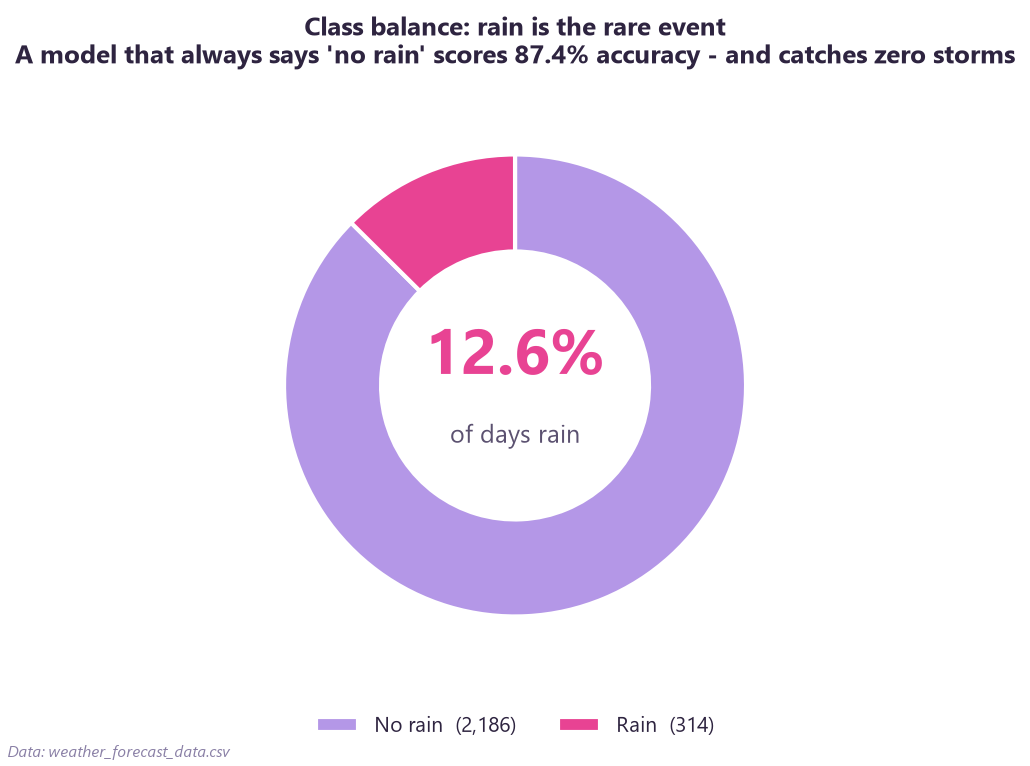
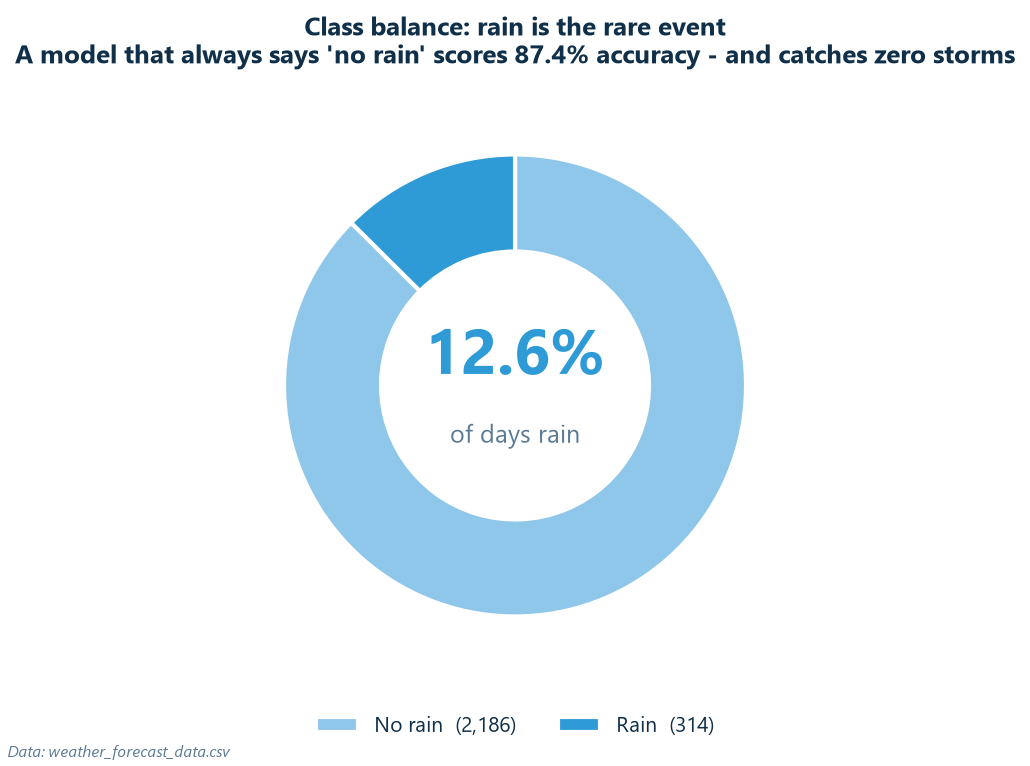
Recolor dashboard + charts to a rainfall-blues theme
Give the rain project its own visual identity, distinct from the purple
BI house style: navy -> ocean -> sky-blue -> cyan palette across the
dashboard (nav rail, KPI tiles, all Chart.js series, tables) and the
matplotlib charts embedded in the README. Verified: renders at 1440x900
with no page scroll, all 9 charts draw, tabs and controls work, no
console errors, no legacy purple remaining.

diff --git a/index.html b/index.html
@@ -7,9 +7,9 @@
 <script src="https://cdn.jsdelivr.net/npm/chart.js@4.4.1/dist/chart.umd.min.js"></script>
 <style>
   :root{
-    --purple:#6C4AB6; --purple2:#7A5FCC; --pink:#E84393; --pink2:#FF4F9A;
-    --lilac:#B497E7; --canvas:#F5F3FB; --ink:#2E2440; --muted:#8A80A6;
-    --card:#ffffff; --line:#ECE6F7;
+    --purple:#0F3A5F; --purple2:#1E6FA8; --pink:#2E9BD6; --pink2:#38C6E0;
+    --lilac:#8FC7EA; --canvas:#EFF6FB; --ink:#103049; --muted:#5B7A93;
+    --card:#ffffff; --line:#DCE9F2;
   }
   *{box-sizing:border-box; margin:0; padding:0;}
   html,body{height:100%;}
@@ -52,16 +52,16 @@
   .pill{
     background:#fff; border:1px solid var(--line); border-radius:20px;
     padding:6px 13px; font-size:11.5px; font-weight:600; color:var(--purple);
-    box-shadow:0 2px 6px rgba(108,74,182,.06);
+    box-shadow:0 2px 6px rgba(15,58,95,.06);
   }
   /* KPI tiles */
   .kpis{display:grid; grid-template-columns:repeat(5,1fr); gap:12px; margin-bottom:12px;}
-  .kpi{border-radius:14px; padding:12px 14px; color:#fff; box-shadow:0 6px 16px rgba(108,74,182,.16);}
-  .kpi:nth-child(1){background:linear-gradient(135deg,#6C4AB6,#7A5FCC);}
-  .kpi:nth-child(2){background:linear-gradient(135deg,#7A5FCC,#B497E7);}
-  .kpi:nth-child(3){background:linear-gradient(135deg,#9b5bc0,#E84393);}
-  .kpi:nth-child(4){background:linear-gradient(135deg,#E84393,#FF4F9A);}
-  .kpi:nth-child(5){background:linear-gradient(135deg,#7A5FCC,#E84393);}
+  .kpi{border-radius:14px; padding:12px 14px; color:#fff; box-shadow:0 6px 16px rgba(15,58,95,.16);}
+  .kpi:nth-child(1){background:linear-gradient(135deg,#0F3A5F,#1E6FA8);}
+  .kpi:nth-child(2){background:linear-gradient(135deg,#1E6FA8,#2E9BD6);}
+  .kpi:nth-child(3){background:linear-gradient(135deg,#1B7BB0,#2E9BD6);}
+  .kpi:nth-child(4){background:linear-gradient(135deg,#2E9BD6,#38C6E0);}
+  .kpi:nth-child(5){background:linear-gradient(135deg,#1E6FA8,#14A0A0);}
   .kpi .lab{font-size:10.5px; opacity:.9; letter-spacing:.4px; text-transform:uppercase;}
   .kpi .val{font-size:25px; font-weight:700; margin-top:4px; line-height:1;}
   .kpi .sub{font-size:10.5px; opacity:.88; margin-top:3px;}
@@ -76,7 +76,7 @@
   .g-drivers{grid-template-columns:1fr 1fr 1fr;}
   .card{
     background:var(--card); border:1px solid var(--line); border-radius:16px;
-    padding:12px 14px; box-shadow:0 4px 14px rgba(108,74,182,.07);
+    padding:12px 14px; box-shadow:0 4px 14px rgba(15,58,95,.07);
     display:flex; flex-direction:column; min-height:0;
   }
   .card h3{font-size:13px; font-weight:700; margin-bottom:2px;}
@@ -87,7 +87,7 @@
   .ctrl label{font-size:10.5px; color:var(--muted); font-weight:600; margin-right:6px;}
   .ctrl select, .ctrl .seg{
     font-family:inherit; font-size:11.5px; font-weight:600; color:var(--purple);
-    border:1px solid var(--lilac); background:#faf8ff; border-radius:8px; padding:4px 8px;
+    border:1px solid var(--lilac); background:#eff6fc; border-radius:8px; padding:4px 8px;
   }
   .seg{display:inline-flex; gap:2px; padding:2px;}
   .seg button{all:unset; cursor:pointer; padding:4px 10px; border-radius:6px; font-size:11px; font-weight:600; color:var(--purple);}
@@ -96,13 +96,13 @@
   /* rain-rate + threshold tables */
   table.rr{width:100%; border-collapse:collapse; font-size:11px;}
   table.rr th,table.rr td{padding:6px 4px; text-align:center; border:1px solid var(--line);}
-  table.rr th{background:#f6f2fe; color:var(--purple); font-weight:700;}
+  table.rr th{background:#eaf3fb; color:var(--purple); font-weight:700;}
   table.rr td b{font-size:12.5px;}
-  table.rr .corner{background:#efe9fb;}
+  table.rr .corner{background:#e0edf7;}
   .tt{width:100%; border-collapse:collapse; font-size:11px; margin-top:6px;}
   .tt th,.tt td{padding:5px 6px; text-align:center; border-bottom:1px solid var(--line);}
   .tt th{color:var(--purple); font-weight:700;}
-  .tt tr.hl td{background:#fdeaf4; font-weight:700;}
+  .tt tr.hl td{background:#e2f1fb; font-weight:700;}
   .foot{font-size:9.5px; color:var(--muted); text-align:right; margin-top:6px;}
 </style>
 </head>
@@ -202,7 +202,7 @@
           </div>
           <div class="card">
             <h3>Logistic coefficients</h3>
-            <div class="cap">Standardized coefficients (per +1 SD). Pink &rarr; rain, purple &rarr; no-rain.</div>
+            <div class="cap">Standardized coefficients (per +1 SD). Sky blue &rarr; rain, navy &rarr; no-rain.</div>
             <div class="canvas-box"><canvas id="coefChart"></canvas></div>
           </div>
           <div class="card">
@@ -220,7 +220,7 @@
 <script type="application/json" id="dashData">{"meta":{"n_rows":2500,"n_features":5,"n_rain":314,"n_no_rain":2186,"pct_rain":12.6,"naive_accuracy":87.4,"random_state":42,"test_size":0.25,"features":["Temperature","Humidity","Wind_Speed","Cloud_Cover","Pressure"],"units":{"Temperature":"\u00b0C","Humidity":"%","Wind_Speed":"m/s","Cloud_Cover":"%","Pressure":"hPa"}},"class_balance":{"no_rain":2186,"rain":314},"group_means":{"Temperature":{"no_rain":23.319913429722003,"rain":17.442618602316482,"delta":-5.877294827405521,"unit":"\u00b0C"},"Humidity":{"no_rain":61.45515136986936,"rain":84.48017595399446,"delta":23.0250245841251,"unit":"%"},"Wind_Speed":{"no_rain":9.90929731927227,"rain":9.885073119248622,"delta":-0.02422420002364767,"unit":"m/s"},"Cloud_Cover":{"no_rain":46.05816197231074,"rain":74.72012282228647,"delta":28.661960849975728,"unit":"%"},"Pressure":{"no_rain":1014.2490213017143,"rain":1014.7531181130876,"delta":0.5040968113733015,"unit":"hPa"}},"correlation":{"labels":["Temperature","Humidity","Wind_Speed","Cloud_Cover","Pressure","Rain(0/1)"],"matrix":[[1.0,-0.014,-0.005,0.007,-0.007,-0.266],[-0.014,1.0,0.004,0.007,-0.032,0.382],[-0.005,0.004,1.0,-0.0,0.019,-0.001],[0.007,0.007,-0.0,1.0,0.023,0.326],[-0.007,-0.032,0.019,0.023,1.0,0.008],[-0.266,0.382,-0.001,0.326,0.008,1.0]],"rain_corr":{"Humidity":0.382,"Cloud_Cover":0.326,"Pressure":0.008,"Wind_Speed":-0.001,"Temperature":-0.266}},"distributions":{"Temperature":{"unit":"\u00b0C","centers":[10.5,11.5,12.5,13.5,14.5,15.5,16.5,17.5,18.5,19.5,20.5,21.5,22.5,23.5,24.5,25.5,26.5,27.5,28.5,29.5,30.5,31.5,32.5,33.5,34.5],"no_rain":[0.04027,0.03203,0.04027,0.03249,0.03661,0.03112,0.04164,0.03798,0.03615,0.03295,0.04072,0.0302,0.03295,0.03844,0.03523,0.04622,0.03615,0.05079,0.04301,0.04301,0.04393,0.04393,0.04622,0.05171,0.05628],"rain":[0.0669,0.07645,0.08282,0.05415,0.05097,0.05415,0.05415,0.09238,0.07008,0.07964,0.06371,0.06371,0.07645,0.06053,0.05415,0.0,0.0,0.0,0.0,0.0,0.0,0.0,0.0,0.0,0.0],"mean_no_rain":23.319913429722003,"mean_rain":17.442618602316482},"Humidity":{"unit":"%","centers":[31.4,34.2,37.0,39.8,42.6,45.4,48.2,51.0,53.8,56.6,59.4,62.2,65.0,67.8,70.6,73.4,76.2,79.0,81.8,84.6,87.4,90.2,93.0,95.8,98.6],"no_rain":[0.01634,0.01503,0.01634,0.01781,0.01781,0.01569,0.01781,0.01879,0.01716,0.01503,0.01928,0.01601,0.01699,0.01471,0.01373,0.01111,0.00964,0.0098,0.01176,0.01307,0.01046,0.01258,0.00817,0.01209,0.00997],"rain":[0.0,0.0,0.0,0.0,0.0,0.0,0.0,0.0,0.0,0.0,0.0,0.0,0.0,0.0,0.02161,0.03868,0.04778,0.02958,0.03185,0.02503,0.0364,0.02844,0.03981,0.0273,0.03071],"mean_no_rain":61.45515136986936,"mean_rain":84.48017595399446},"Wind_Speed":{"unit":"m/s","centers":[0.41,1.21,2.01,2.81,3.61,4.41,5.21,6.01,6.81,7.61,8.41,9.2,10.0,10.8,11.6,12.4,13.2,14.0,14.8,15.6,16.4,17.2,18.0,18.8,19.6],"no_rain":[0.05149,0.05321,0.05035,0.04749,0.05035,0.06236,0.04749,0.05092,0.03948,0.05378,0.04234,0.05664,0.04577,0.04463,0.06007,0.05264,0.0452,0.05092,0.05092,0.06007,0.04806,0.04405,0.05321,0.04348,0.04577],"rain":[0.05975,0.0478,0.05576,0.07568,0.03983,0.0478,0.0478,0.02788,0.05178,0.07568,0.0478,0.03585,0.06373,0.04381,0.01593,0.07169,0.03585,0.06373,0.0478,0.03186,0.05576,0.04381,0.05178,0.0478,0.06373],"mean_no_rain":9.90929731927227,"mean_rain":9.885073119248622},"Cloud_Cover":{"unit":"%","centers":[2.01,6.01,10.01,14.01,18.01,22.01,26.01,30.01,34.01,38.01,42.01,46.01,50.01,54.01,58.01,62.0,66.0,70.0,74.0,78.0,82.0,86.0,90.0,94.0,98.0],"no_rain":[0.01315,0.01338,0.01029,0.01293,0.01178,0.01041,0.01007,0.00972,0.00812,0.01212,0.01247,0.01327,0.01121,0.00904,0.00801,0.00824,0.00766,0.00789,0.00846,0.00881,0.00766,0.00858,0.01132,0.00812,0.00732],"rain":[0.0,0.0,0.0,0.0,0.0,0.0,0.0,0.0,0.0,0.0,0.0,0.0,0.00956,0.02389,0.0223,0.01832,0.01593,0.0207,0.02309,0.01832,0.01672,0.01832,0.0207,0.02628,0.01593],"mean_no_rain":46.05816197231074,"mean_rain":74.72012282228647},"Pressure":{"unit":"hPa","centers":[981.41,984.21,987.01,989.81,992.61,995.41,998.21,1001.01,1003.8,1006.6,1009.4,1012.2,1015.0,1017.8,1020.6,1023.4,1026.2,1028.99,1031.79,1034.59,1037.39,1040.19,1042.99,1045.79,1048.59],"no_rain":[0.01569,0.01308,0.01536,0.01291,0.01667,0.01569,0.01667,0.01602,0.01259,0.01389,0.01683,0.01422,0.01291,0.01389,0.01226,0.01357,0.0152,0.01275,0.01585,0.0134,0.01455,0.01357,0.01324,0.01389,0.01259],"rain":[0.01252,0.02048,0.01934,0.00797,0.01593,0.00683,0.01479,0.01365,0.01479,0.01821,0.01934,0.01593,0.01821,0.00683,0.01934,0.00797,0.00683,0.01821,0.01593,0.00569,0.01821,0.01365,0.01252,0.01593,0.01821],"mean_no_rain":1014.2490213017143,"mean_rain":1014.7531181130876}},"rain_rate_table":{"humidity_labels":["Low (30-55)","Med (55-75)","High (75-100)"],"cloud_labels":["Low (0-33)","Med (33-66)","High (66-100)"],"rate":[[0.0,0.0,0.0],[0.0,7.4,15.6],[0.0,29.4,59.7]],"count":[[306,312,315],[251,229,237],[264,296,290]]},"models":{"Logistic Regression":{"roc_auc":0.956,"precision":0.525,"recall":0.924,"f1":0.67,"accuracy":0.885,"confusion_matrix":{"tn":480,"fp":66,"fn":6,"tp":73}},"Random Forest":{"roc_auc":1.0,"precision":0.988,"recall":1.0,"f1":0.994,"accuracy":0.998,"confusion_matrix":{"tn":545,"fp":1,"fn":0,"tp":79}}},"winner":"Random Forest","roc_curves":{"Logistic Regression":{"fpr":[0.0,0.0,0.0,0.0018,0.0018,0.0055,0.0055,0.0073,0.0073,0.0092,0.0092,0.011,0.011,0.0147,0.0147,0.0165,0.0165,0.0256,0.0256,0.0275,0.0275,0.0293,0.0293,0.0366,0.0366,0.0421,0.0421,0.0458,0.0458,0.0476,0.0476,0.0495,0.0495,0.0531,0.0531,0.0549,0.0549,0.0586,0.0586,0.0623,0.0623,0.0641,0.0641,0.0659,0.0659,0.0751,0.0751,0.0769,0.0769,0.0788,0.0788,0.0806,0.0806,0.0824,0.0824,0.0879,0.0879,0.0916,0.0916,0.0934,0.0934,0.1154,0.1154,0.1172,0.1172,0.119,0.119,0.1209,0.1209,0.1447,0.1447,0.1484,0.1484,0.1722,0.1722,0.1832,0.1832,0.2051,0.2051,1.0],"tpr":[0.0,0.0127,0.1519,0.1519,0.2278,0.2278,0.2658,0.2658,0.2785,0.2785,0.3165,0.3165,0.443,0.443,0.4557,0.4557,0.481,0.481,0.5063,0.5063,0.5316,0.5316,0.5443,0.5443,0.5823,0.5823,0.6203,0.6203,0.6329,0.6329,0.6456,0.6456,0.6582,0.6582,0.6709,0.6709,0.6962,0.6962,0.7089,0.7089,0.7215,0.7215,0.7342,0.7342,0.7468,0.7468,0.7595,0.7595,0.7722,0.7722,0.7848,0.7848,0.7975,0.7975,0.8101,0.8101,0.8228,0.8228,0.8608,0.8608,0.8734,0.8734,0.8861,0.8861,0.8987,0.8987,0.9114,0.9114,0.9367,0.9367,0.9494,0.9494,0.962,0.962,0.9747,0.9747,0.9873,0.9873,1.0,1.0],"auc":0.956},"Random Forest":{"fpr":[0.0,0.0,0.0,0.0,0.0,0.0,0.0,0.0,0.0,0.0,0.0,0.0,0.0165,0.0201,0.022,0.033,0.0495,0.0641,0.0806,0.1044,0.152,0.2198,0.3315,1.0],"tpr":[0.0,0.1139,0.2785,0.4557,0.5316,0.6582,0.7468,0.7975,0.8481,0.8608,0.9367,1.0,1.0,1.0,1.0,1.0,1.0,1.0,1.0,1.0,1.0,1.0,1.0,1.0],"auc":1.0}},"pr_curve":{"recall":[1.0,1.0,1.0,1.0,1.0,1.0,1.0,1.0,1.0,1.0,1.0,1.0,1.0,1.0,1.0,1.0,1.0,1.0,1.0,1.0,1.0,1.0,1.0,0.9873,0.9747,0.962,0.9494,0.9367,0.8987,0.8608,0.8481,0.8228,0.7975,0.7468,0.6582,0.5316,0.4557,0.2785,0.1139,0.0],"precision":[0.1264,0.3038,0.397,0.4877,0.5809,0.6423,0.693,0.7453,0.8144,0.8316,0.8495,0.8681,0.8778,0.8977,0.908,0.9186,0.9294,0.9405,0.9518,0.9634,0.9753,0.9875,1.0,1.0,1.0,1.0,1.0,1.0,1.0,1.0,1.0,1.0,1.0,1.0,1.0,1.0,1.0,1.0,1.0,1.0],"baseline":0.1264,"op_recall":1.0,"op_precision":0.988},"threshold_table":[{"threshold":0.3,"precision":0.9634146341463414,"recall":1.0,"f1":0.9813664596273292,"predicted_rain":82},{"threshold":0.4,"precision":0.9875,"recall":1.0,"f1":0.9937106918238994,"predicted_rain":80},{"threshold":0.5,"precision":0.9875,"recall":1.0,"f1":0.9937106918238994,"predicted_rain":80},{"threshold":0.6,"precision":1.0,"recall":1.0,"f1":1.0,"predicted_rain":79},{"threshold":0.7,"precision":1.0,"recall":1.0,"f1":1.0,"predicted_rain":79}],"rf_importance":{"Humidity":0.4411,"Cloud_Cover":0.3283,"Temperature":0.2211,"Wind_Speed":0.0051,"Pressure":0.0045},"logistic":{"coef":{"Humidity":2.8772,"Cloud_Cover":2.5349,"Pressure":0.0373,"Wind_Speed":-0.0512,"Temperature":-1.8445},"odds":{"Humidity":17.7644,"Cloud_Cover":12.6154,"Pressure":1.038,"Wind_Speed":0.9501,"Temperature":0.1581}}}</script>
 <script>
 const D = JSON.parse(document.getElementById('dashData').textContent);
-const PURPLE='#6C4AB6', PURPLE2='#7A5FCC', PINK='#E84393', PINK2='#FF4F9A', LILAC='#B497E7', INK='#2E2440', MUTED='#8A80A6';
+const PURPLE='#0F3A5F', PURPLE2='#1E6FA8', PINK='#2E9BD6', PINK2='#38C6E0', LILAC='#8FC7EA', INK='#103049', MUTED='#5B7A93';
 Chart.defaults.font.family = "'Segoe UI',sans-serif";
 Chart.defaults.font.size = 11;
 Chart.defaults.color = MUTED;
@@ -263,7 +263,7 @@ document.querySelectorAll('.menu button').forEach(btn=>{
 new Chart(document.getElementById('ringChart'), {
   type:'doughnut',
   data:{labels:['Rain','No rain'], datasets:[{data:[m.n_rain, m.n_no_rain],
-    backgroundColor:['#FF4F9A','rgba(255,255,255,.25)'], borderWidth:0}]},
+    backgroundColor:['#38C6E0','rgba(255,255,255,.25)'], borderWidth:0}]},
   options:{cutout:'74%', plugins:{legend:{display:false},tooltip:{enabled:true}}, responsive:false}
 });
 document.getElementById('ringStat').innerHTML = `<b>${wm.roc_auc.toFixed(3)}</b><span>ROC-AUC &middot; ${win.split(' ')[0].toUpperCase()}</span>`;
@@ -308,8 +308,8 @@ function drawDist(feat){
   const cap = document.getElementById('capDist');
   cap.textContent = `Mean when dry ${d.mean_no_rain.toFixed(1)} vs rainy ${d.mean_rain.toFixed(1)} ${d.unit} (${(d.mean_rain-d.mean_no_rain>=0?'+':'')}${(d.mean_rain-d.mean_no_rain).toFixed(1)}).`;
   const data = {labels:d.centers, datasets:[
-    {label:'No rain', data:d.no_rain, borderColor:LILAC, backgroundColor:'rgba(180,151,231,.35)', fill:true, tension:.35, pointRadius:0, borderWidth:2},
-    {label:'Rain', data:d.rain, borderColor:PINK, backgroundColor:'rgba(232,67,147,.28)', fill:true, tension:.35, pointRadius:0, borderWidth:2}
+    {label:'No rain', data:d.no_rain, borderColor:LILAC, backgroundColor:'rgba(143,199,234,.35)', fill:true, tension:.35, pointRadius:0, borderWidth:2},
+    {label:'Rain', data:d.rain, borderColor:PINK, backgroundColor:'rgba(46,155,214,.28)', fill:true, tension:.35, pointRadius:0, borderWidth:2}
   ]};
   if(distChart){distChart.data=data; distChart.options.scales.x.title.text=feat+' ('+d.unit+')'; distChart.update(); return;}
   distChart = new Chart(document.getElementById('distChart'),{
@@ -343,7 +343,7 @@ function rocDatasets(mode){
       borderColor:rocColors[name], backgroundColor:rocColors[name], fill:false, tension:.1,
       pointRadius:0, borderWidth:2.4});
   });
-  ds.push({label:'Chance', data:[{x:0,y:0},{x:1,y:1}], borderColor:'#C9BFE2',
+  ds.push({label:'Chance', data:[{x:0,y:0},{x:1,y:1}], borderColor:'#B7CFDE',
     borderDash:[6,6], pointRadius:0, borderWidth:1.4});
   return ds;
 }
@@ -369,7 +369,7 @@ function renderModel(){
   cmChart = new Chart(document.getElementById('cmChart'),{
     type:'bar',
     data:{labels:['True neg','False alarm','Missed storm','Caught storm'],
-      datasets:[{data:cmData, backgroundColor:[LILAC,'#F0A6C9',PURPLE2,PINK], borderRadius:8}]},
+      datasets:[{data:cmData, backgroundColor:[LILAC,'#7FB2CC',PURPLE2,PINK], borderRadius:8}]},
     options:{maintainAspectRatio:false, plugins:{legend:{display:false},
       tooltip:{callbacks:{label:c=>c.parsed.y+' days'}}},
       scales:{y:{type:'logarithmic', grid:{color:'#eee'}, title:{display:true,text:'days (log)'}},
@@ -427,7 +427,7 @@ function renderDrivers(){
     html+=`<tr><th>${h}</th>`;
     t.rate[i].forEach((v,j)=>{
       const a = v/ Math.max(...t.rate.flat());
-      html+=`<td style="background:rgba(232,67,147,${(a*0.72).toFixed(2)}); color:${a>0.5?'#fff':INK}"><b>${v.toFixed(0)}%</b><br><span style="font-size:9px;opacity:.8">n=${t.count[i][j]}</span></td>`;
+      html+=`<td style="background:rgba(46,155,214,${(a*0.78).toFixed(2)}); color:${a>0.5?'#fff':INK}"><b>${v.toFixed(0)}%</b><br><span style="font-size:9px;opacity:.8">n=${t.count[i][j]}</span></td>`;
     });
     html+='</tr>';
   });

diff --git a/analysis/rain_analysis.py b/analysis/rain_analysis.py
@@ -67,31 +67,31 @@ ANALYSIS_DIR.mkdir(exist_ok=True)
 
 SOURCE_NOTE = "Data: weather_forecast_data.csv"
 
-# Purple/magenta house palette
-C_PURPLE = "#6C4AB6"
-C_PURPLE2 = "#7A5FCC"
-C_PINK = "#E84393"
-C_PINK2 = "#FF4F9A"
-C_LILAC = "#B497E7"
-C_CANVAS = "#F5F3FB"
-C_INK = "#2E2440"
+# Rainfall-blues palette
+C_PURPLE = "#0F3A5F"   # navy (darkest / negative direction)
+C_PURPLE2 = "#1E6FA8"  # ocean blue
+C_PINK = "#2E9BD6"     # sky blue (primary accent / rain)
+C_PINK2 = "#38C6E0"    # cyan (bright accent)
+C_LILAC = "#8FC7EA"    # pale sky (light fill)
+C_CANVAS = "#EFF6FB"
+C_INK = "#103049"
 
 plt.rcParams.update(
     {
         "figure.dpi": 150,
         "savefig.dpi": 150,
         "font.family": "Segoe UI, DejaVu Sans, sans-serif",
-        "axes.edgecolor": "#D7CEEB",
+        "axes.edgecolor": "#C7DBEA",
         "axes.linewidth": 1.0,
         "axes.grid": True,
-        "grid.color": "#E7E0F4",
+        "grid.color": "#E1EDF6",
         "grid.linewidth": 0.8,
         "axes.titleweight": "bold",
         "axes.titlecolor": C_INK,
         "text.color": C_INK,
         "axes.labelcolor": C_INK,
-        "xtick.color": "#5B5170",
-        "ytick.color": "#5B5170",
+        "xtick.color": "#5B7A93",
+        "ytick.color": "#5B7A93",
         "figure.facecolor": "white",
         "axes.facecolor": "white",
     }
@@ -111,7 +111,7 @@ def _source(ax):
         xytext=(0.008, 0.012),
         textcoords="figure fraction",
         fontsize=7.5,
-        color="#8A80A6",
+        color="#5B7A93",
         style="italic",
     )
 
@@ -166,7 +166,7 @@ wedges, _ = ax.pie(
 )
 ax.text(0, 0.12, f"{pct_rain:.1f}%", ha="center", va="center",
         fontsize=30, fontweight="bold", color=C_PINK)
-ax.text(0, -0.22, "of days rain", ha="center", va="center", fontsize=12, color="#5B5170")
+ax.text(0, -0.22, "of days rain", ha="center", va="center", fontsize=12, color="#5B7A93")
 ax.legend(
     wedges,
     [f"No rain  ({n_norain:,})", f"Rain  ({n_rain:,})"],
@@ -213,7 +213,7 @@ for feat in FEATURES:
     arrow = "▲" if d > 0 else "▼"
     lines.append(f"{arrow} {feat:<12} {d:+.1f} {UNITS[feat]}")
 axes[5].text(0.02, 0.72, "\n".join(lines), fontsize=11, family="monospace",
-             color="#4A4066", va="top")
+             color="#103049", va="top")
 fig.suptitle("What does a rainy day look like? Feature distributions by outcome",
              fontsize=14, fontweight="bold", color=C_INK, y=0.99)
 fig.tight_layout(rect=[0, 0.02, 1, 0.97])
@@ -353,7 +353,7 @@ for name in models:
     roc_series[name] = {"fpr": fpr.tolist(), "tpr": tpr.tolist()}
     ax.plot(fpr, tpr, color=colors[name], lw=2.4,
             label=f"{name} (AUC={results[name]['roc_auc']:.3f})")
-ax.plot([0, 1], [0, 1], ls="--", color="#B9AED4", lw=1.3, label="Random (AUC=0.500)")
+ax.plot([0, 1], [0, 1], ls="--", color="#B7CFDE", lw=1.3, label="Random (AUC=0.500)")
 ax.set_xlabel("False Positive Rate", fontsize=10)
 ax.set_ylabel("True Positive Rate (Recall on rain)", fontsize=10)
 ax.set_xlim(-0.01, 1.01)
@@ -393,7 +393,7 @@ prec, rec, thr = precision_recall_curve(y_test, results[winner]["proba"])
 fig, ax = plt.subplots(figsize=(7.4, 6.2))
 ax.plot(rec, prec, color=C_PINK, lw=2.4)
 base_rate = y_test.mean()
-ax.axhline(base_rate, ls="--", color="#B9AED4", lw=1.3,
+ax.axhline(base_rate, ls="--", color="#B7CFDE", lw=1.3,
            label=f"No-skill baseline ({base_rate:.3f})")
 # mark the default 0.5 threshold operating point
 p50 = results[winner]["precision"]; r50 = results[winner]["recall"]
@@ -451,7 +451,7 @@ ax.barh(coefs.index, coefs.values, color=bar_colors)
 for i, (c, o) in enumerate(zip(coefs.values, odds.values)):
     ax.text(c + (0.05 if c >= 0 else -0.05), i, f"{c:+.2f}  (OR {o:.2f})",
             va="center", ha="left" if c >= 0 else "right", fontsize=9, color=C_INK)
-ax.axvline(0, color="#8A80A6", lw=1)
+ax.axvline(0, color="#5B7A93", lw=1)
 ax.set_xlabel("Logistic coefficient (standardized features)  ->  pushes toward RAIN", fontsize=9.5)
 pad = max(abs(coefs.min()), abs(coefs.max())) * 0.55
 ax.set_xlim(coefs.min() - pad, coefs.max() + pad)
